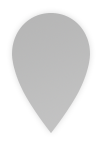
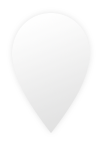
fix marker-img

diff --git a/src/Components/Templates/Maps/Marker.js b/src/Components/Templates/Maps/Marker.js
@@ -30,7 +30,7 @@ function Marker({ map }) {
       const fewMarker =
         'https://raw.githubusercontent.com/songseungeun/mask-stores/feature-content/src/img/marker-f.png';
       const defaultMarker =
-        'https://raw.githubusercontent.com/songseungeun/mask-stores/feature-content/src/img/marker-d.png';
+        'https://raw.githubusercontent.com/songseungeun/mask-stores/feature-content/src/img/marker-n.png';
 
       markersPosition.forEach((store) => {
         switch (store.remain_stat) {
